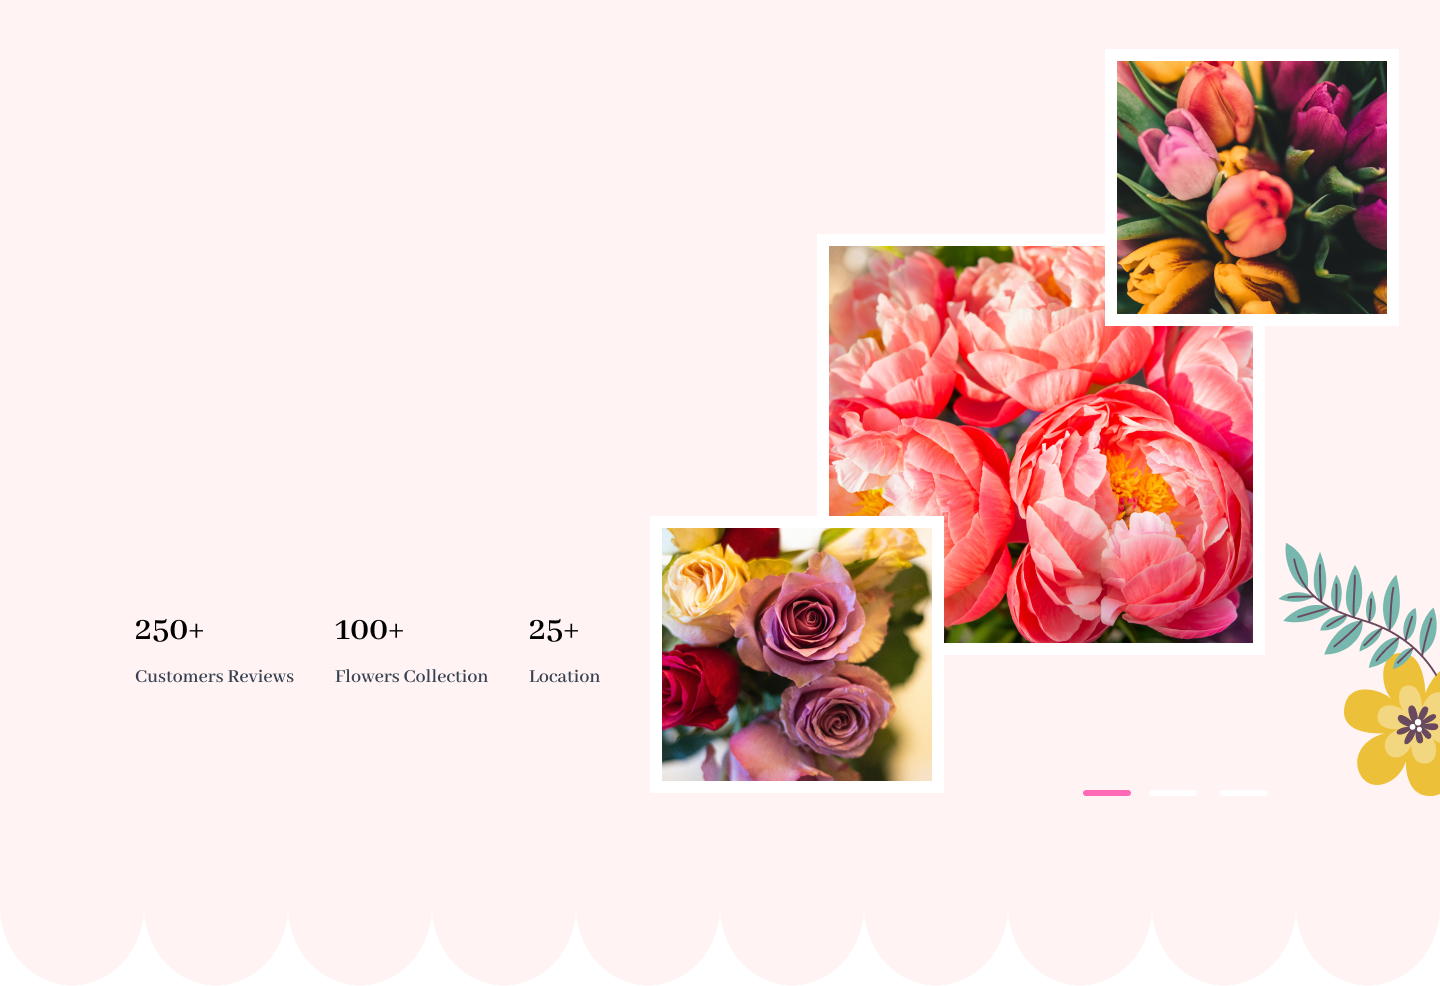
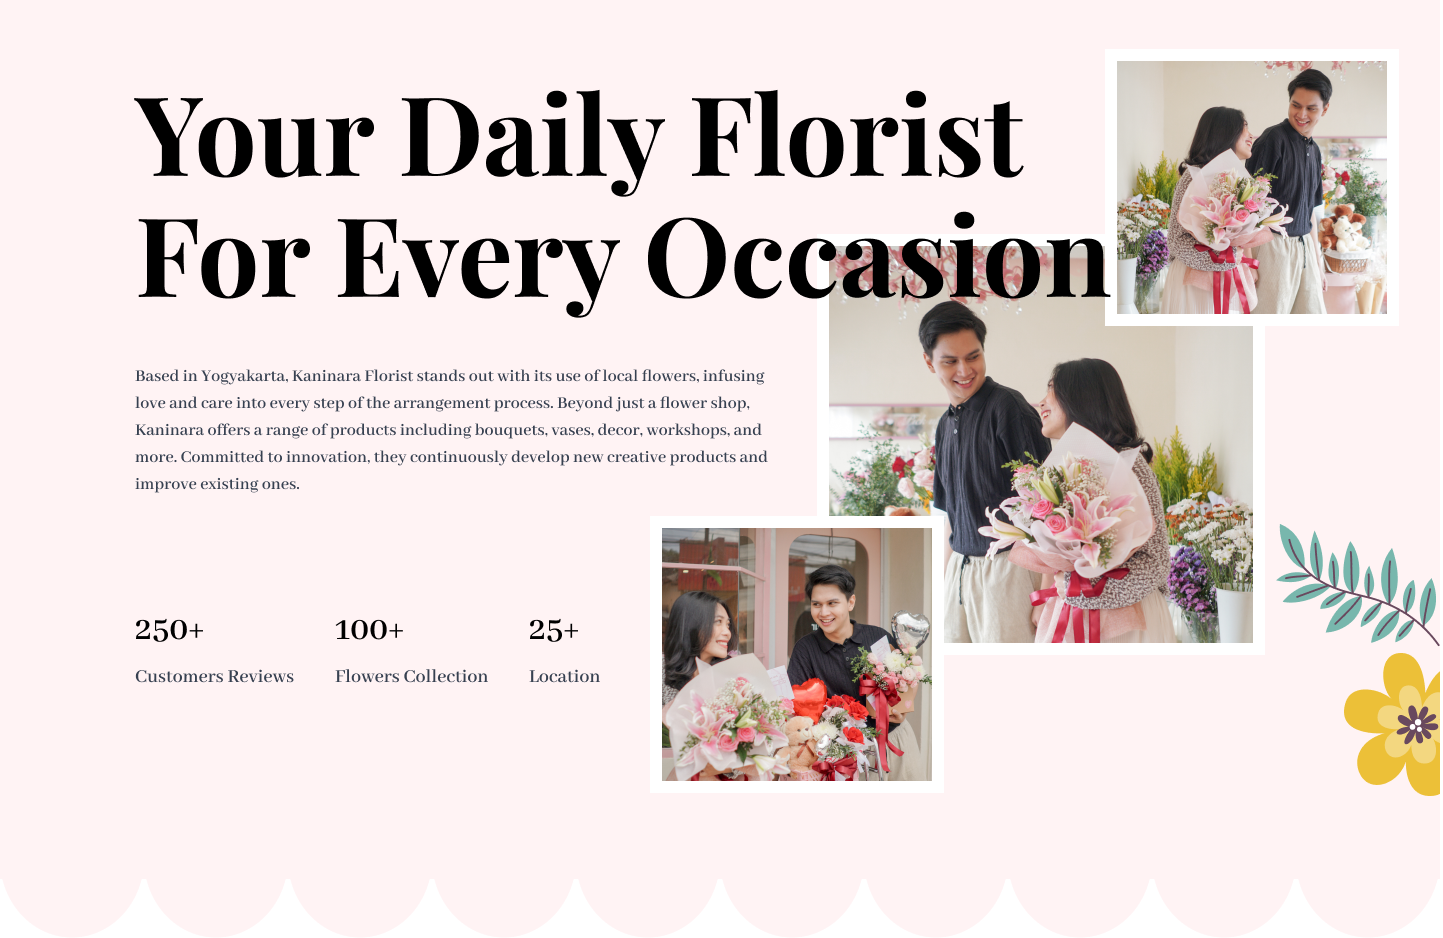
demo

diff --git a/frontend/src/components/Flowers/Flowers.jsx b/frontend/src/components/Flowers/Flowers.jsx
@@ -1,5 +1,6 @@
 import React from 'react';
 import './Flowers.css';
+import flo from './flo.svg'; // Pastikan path ini benar
 
 const Flowers = () => {
   return (
@@ -9,7 +10,7 @@ const Flowers = () => {
         <div className="flower-card">
           <h2>Daily Flowers</h2>
           <div className="flower-icon">
-            <img src="path_to_your_icon" alt="icon" />
+            <img src={flo} alt="icon" /> {/* Gunakan variabel flo */}
           </div>
           <p>You can choose your bouquet size to perfectly match your occasion!</p>
           <button className="browse-button">Browse</button>
@@ -17,7 +18,7 @@ const Flowers = () => {
         <div className="flower-card">
           <h2>Catalog by category</h2>
           <div className="flower-icon">
-            <img src="path_to_your_icon" alt="icon" />
+            <img src={flo} alt="icon" /> {/* Gunakan variabel flo */}
           </div>
           <p>Go to the catalog / choose the type of bouquet </p>
           <button className="browse-button">Browse</button>
@@ -25,7 +26,7 @@ const Flowers = () => {
         <div className="flower-card">
           <h2>How to Order</h2>
           <div className="flower-icon">
-            <img src="path_to_your_icon" alt="icon" />
+            <img src={flo} alt="icon" /> {/* Gunakan variabel flo */}
           </div>
           <p>Kindly reach out to our Admin by WhatsApp for Order and design custom</p>
           <button className="browse-button">Browse</button>

diff --git a/frontend/src/components/Navbar/Navbar.jsx b/frontend/src/components/Navbar/Navbar.jsx
@@ -22,11 +22,12 @@ const Navbar = ({ setShowLogin }) => {
       <ul className="navbar-menu">
         <Link to="/" onClick={() => setMenu("home")} className={`${menu === "home" ? "active" : ""}`}>home</Link>
         <a href='#explore-menu' onClick={() => setMenu("menu")} className={`${menu === "menu" ? "active" : ""}`}>catalog</a>
-        <a href='#explore-menu2' onClick={() => setMenu("menu2")} className={`${menu === "menu2" ? "active" : ""}`}>catalog2</a>
+        <Link to="/Kategori" onClick={() => setMenu("menu2")} className={`${menu === "menu2" ? "active" : ""}`}>collection</Link> 
         <a href='#app-download' onClick={() => setMenu("mob-app")} className={`${menu === "mob-app" ? "active" : ""}`}>class</a>
         <a href='' onClick={() => setMenu("blog")} className={`${menu === "contact" ? "active" : ""}`}>blog</a>
-        <a href='#footer' onClick={() => setMenu("contact")} className={`${menu === "contact" ? "active" : ""}`}>contact us</a>
+        <a href='#get-deals' onClick={() => setMenu("contact")} className={`${menu === "contact" ? "active" : ""}`}>contact us</a>
       </ul>
+
       <div className="navbar-right">
         <img src={assets.search_icon} alt="" />
         <Link to='/cart' className='navbar-search-icon'>

diff --git a/frontend/src/components/GetDeals/GetDeals.css b/frontend/src/components/GetDeals/GetDeals.css
@@ -1,15 +1,30 @@
+* {
+    margin: 0;
+    padding: 0;
+    box-sizing: border-box;
+  }
 .get-deals {
     display: flex;
     justify-content: center;
     align-items: center;
     text-align: center;
     background-image: url('../../assets/assets/deals.jpg'); /* Sesuaikan dengan path dari assets Anda */
-    background-size: contain; /* Mengatur ukuran gambar agar sesuai dengan area yang tersedia */
+    background-size:auto; /* Mengatur ukuran gambar agar sesuai dengan area yang tersedia */
     background-repeat: no-repeat;
     background-position: center;
     min-height: 100vh; /* Mengatur tinggi minimum agar memenuhi layar */
     padding: 20px;
     margin: 0; /* Menghilangkan margin luar untuk mencegah efek border */
+    width: 100vw;
+
+    text-align: center;
+    font-family: Arial, sans-serif;
+    position: relative;
+    left: 50%; /* Menggeser elemen ke tengah */
+    right: 50%; /* Menggeser elemen ke tengah */
+    margin-left: -50vw; /* Menghapus margin default */
+    margin-right: -50vw; /* Menghapus margin default */
+    margin-bottom: -8vw;
   }
   
   .content {

diff --git a/frontend/src/pages/Kategori/Kategori.jsx b/frontend/src/pages/Kategori/Kategori.jsx
@@ -1,0 +1,28 @@
+import React, { useContext } from 'react'
+import './Kategori.css'
+import { StoreContext } from '../../Context/StoreContext'
+
+const ExploreMenu = ({category,setCategory}) => {
+
+  const {menu_list} = useContext(StoreContext);
+  
+  return (
+    <div className='explore-menu' id='explore-menu'>
+      <h1>Explore Our Category</h1>
+      <p className='explore-menu-text'>Lorem ipsum dolor sit amet, consectetur adipiscing elit, sed do eiusmod tempor incididunt ut labore et dolore magna aliqua.</p>
+      <div className="explore-menu-list">
+        {menu_list.map((item,index)=>{
+            return (
+                <div onClick={()=>setCategory(prev=>prev===item.menu_name?"All":item.menu_name)} key={index} className='explore-menu-list-item'>
+                    <img src={item.menu_image} className={category===item.menu_name?"active":""} alt="" />
+                    <p>{item.menu_name}</p>
+                </div>
+            )
+        })}
+      </div>
+      <hr />
+    </div>
+  )
+}
+
+export default ExploreMenu

diff --git a/backend/config/db.js b/backend/config/db.js
@@ -2,10 +2,10 @@ import mongoose from "mongoose";
 
 export const  connectDB = async () =>{
 
-    await mongoose.connect('mongodb+srv://vincydigitalproject:hc98Roo7uCo1FvVa@kaninara.13jw9.mongodb.net/').then(()=>console.log("DB Connected"));
+    await mongoose.connect('mongodb+srv://vincydigitalproject:Y5W3xpfbQz1MFvm7@kaninara.y0t1r.mongodb.net/').then(()=>console.log("DB Connected"));
     //mongodb+srv://vincyproject_1:6ZlssAM2hEWSDtaC@cluster0.omx4d.mongodb.net/?retryWrites=true&w=majority&appName=Cluster0
 }
 
 
 // add your mongoDB connection string above.
-// Do not use '@' symbol in your databse user's password else it will show an error.
+// Do not use '@' symbol in your databse user's password else it will show an error.    

diff --git a/frontend/src/components/Header/Header.css b/frontend/src/components/Header/Header.css
@@ -1,12 +1,22 @@
+* {
+    margin: 0;
+    padding: 0;
+    box-sizing: border-box;
+  }
 .header{
     height: 54vw;
-    margin: 30px auto;
     background: url('/header_img.png') no-repeat;
-    background-size:cover;
-    position: relative;
-    width: 100%;
+    background-size:100% auto;
+    position: center;
+    height: 67vw;
+    width: 100vw;
+    margin-left: calc(-50vw + 50%); /* Ensures the background spans the full width */
+    padding-left: calc(50vw - 50%); /* Center the content within the background */
+    padding-right: calc(50vw - 50%);
     overflow: hidden;
+    margin-bottom: 5vw;
 }
+
 .header-contents{
     position: absolute;
     display: flex;

diff --git a/frontend/src/components/Header/Header.jsx b/frontend/src/components/Header/Header.jsx
@@ -5,9 +5,6 @@ const Header = () => {
     return (
         <div className='header'>
             <div className='header-contents'>
-                <h2>Your Daily Florist For Every Occasion</h2>
-                <p>Based in Yogyakarta, Kaninara Florist stands out with its use of local flowers, infusing love and care into every step of the arrangement process. Beyond just a flower shop, Kaninara offers a range of products including bouquets, vases, decor, workshops, and more. Committed to innovation, they continuously develop new creative products and improve existing ones.</p>
-                <button>Learn More</button>
             </div>
         </div>
     )

diff --git a/frontend/src/components/FoodDisplay/FoodDisplay.css b/frontend/src/components/FoodDisplay/FoodDisplay.css
@@ -1,5 +1,6 @@
 .food-display{
     margin-top: 30px;
+    margin-bottom: 5vw;
 }
 .food-display h2{
     font-size: max(2vw,24px);
@@ -12,3 +13,9 @@
     gap: 30px;
     row-gap: 50px;
 }
+
+.food-item-image {
+    width: 100%; 
+    height: 280px; /* Sesuaikan tinggi yang diinginkan */
+    object-fit: cover; 
+  }

diff --git a/frontend/src/components/Navbar/Navbar.css b/frontend/src/components/Navbar/Navbar.css
@@ -1,8 +1,10 @@
+
 .navbar {
     padding: 20px 0px;
     display: flex;
     justify-content: space-between;
     align-items: center;
+    background-color: #FFF3F4; /* Tambahkan warna pink di sini */
 }
 
 .navbar .logo {

diff --git a/frontend/src/components/Floral/Floral.css b/frontend/src/components/Floral/Floral.css
@@ -6,6 +6,7 @@
     color: #ffffff; /* Text putih */
     padding: 50px;
     position: relative;
+    margin-bottom: 5vw;
   }
   
   .floral-content {

diff --git a/frontend/src/components/ExploreMenu/ExploreMenu.css b/frontend/src/components/ExploreMenu/ExploreMenu.css
@@ -2,6 +2,7 @@
     display: flex;
     flex-direction: column;
     gap: 20px;
+    margin-top: 5vw;
 }
 .explore-menu h1{
     color: #262626;

diff --git a/frontend/src/components/CsReview/CsFeature.css b/frontend/src/components/CsReview/CsFeature.css
@@ -4,6 +4,7 @@
     position: relative;
     padding: 2em;
     background-color: #ffffff;
+    margin-bottom: -5vw;
 }
 
 .cs-feature h2 {
